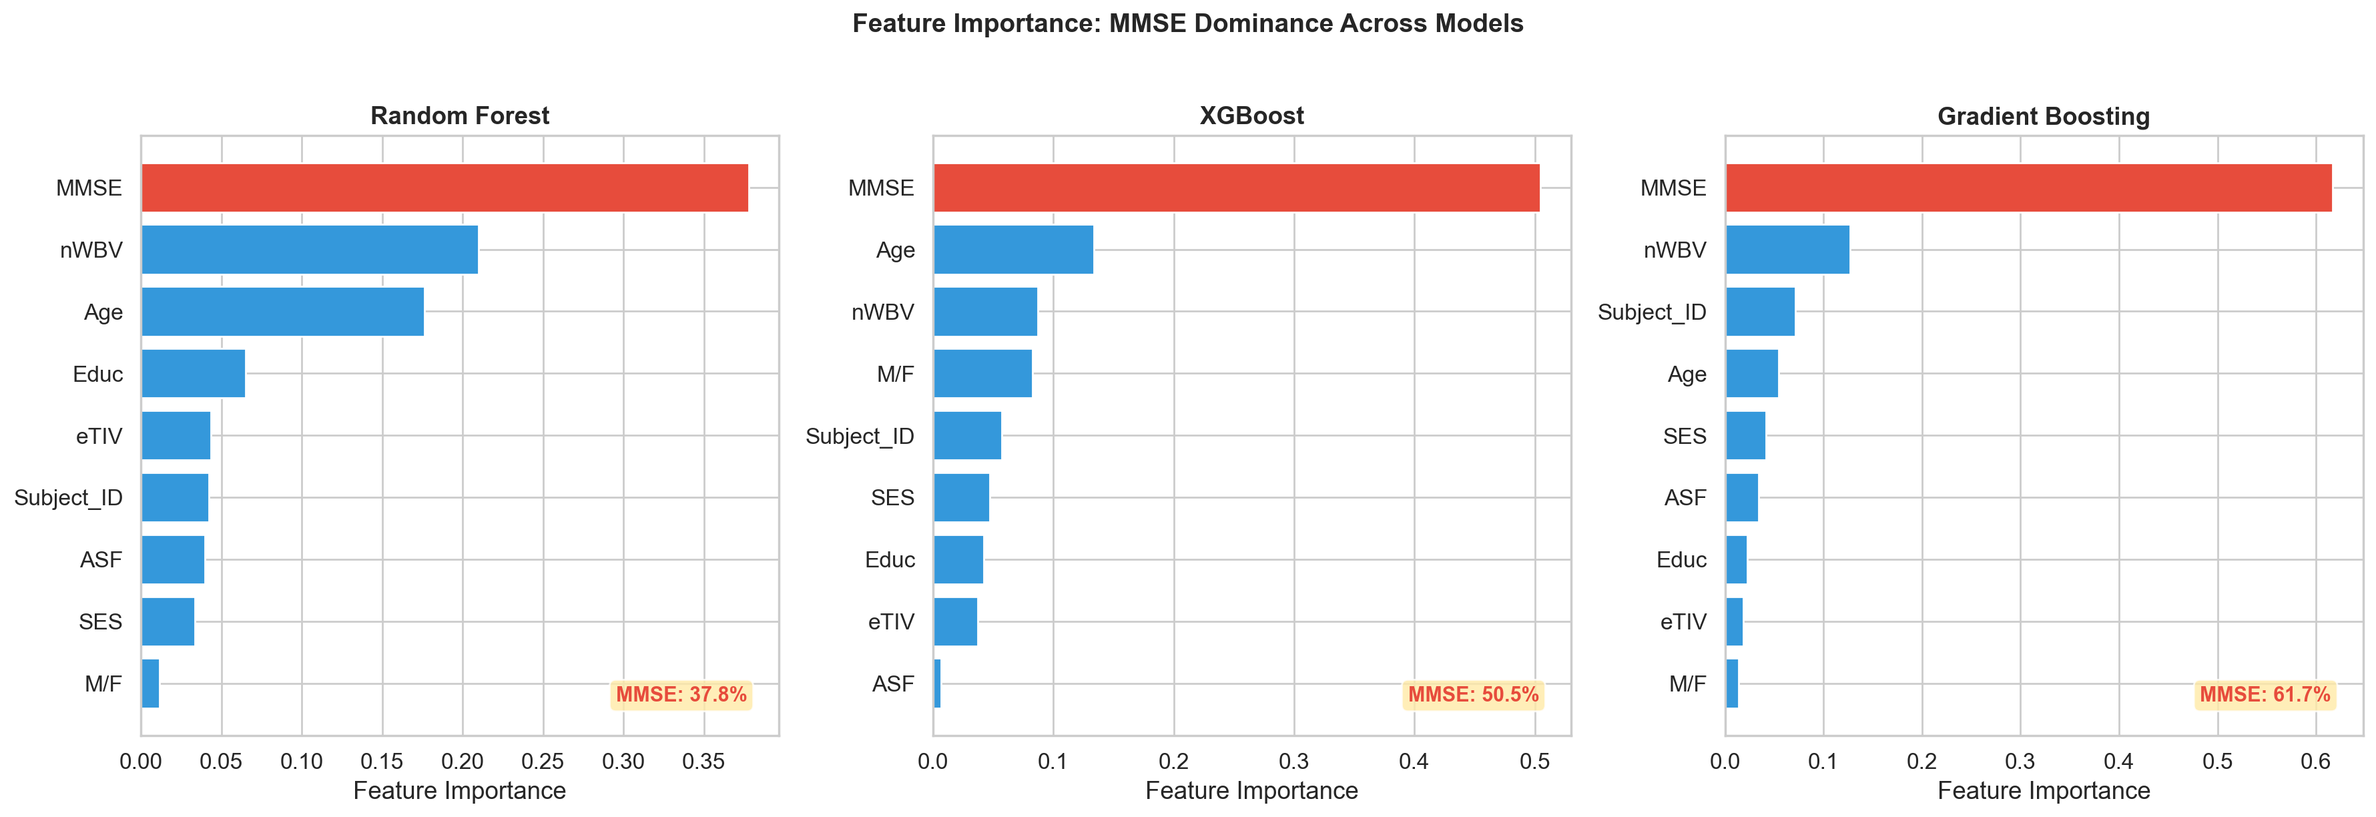
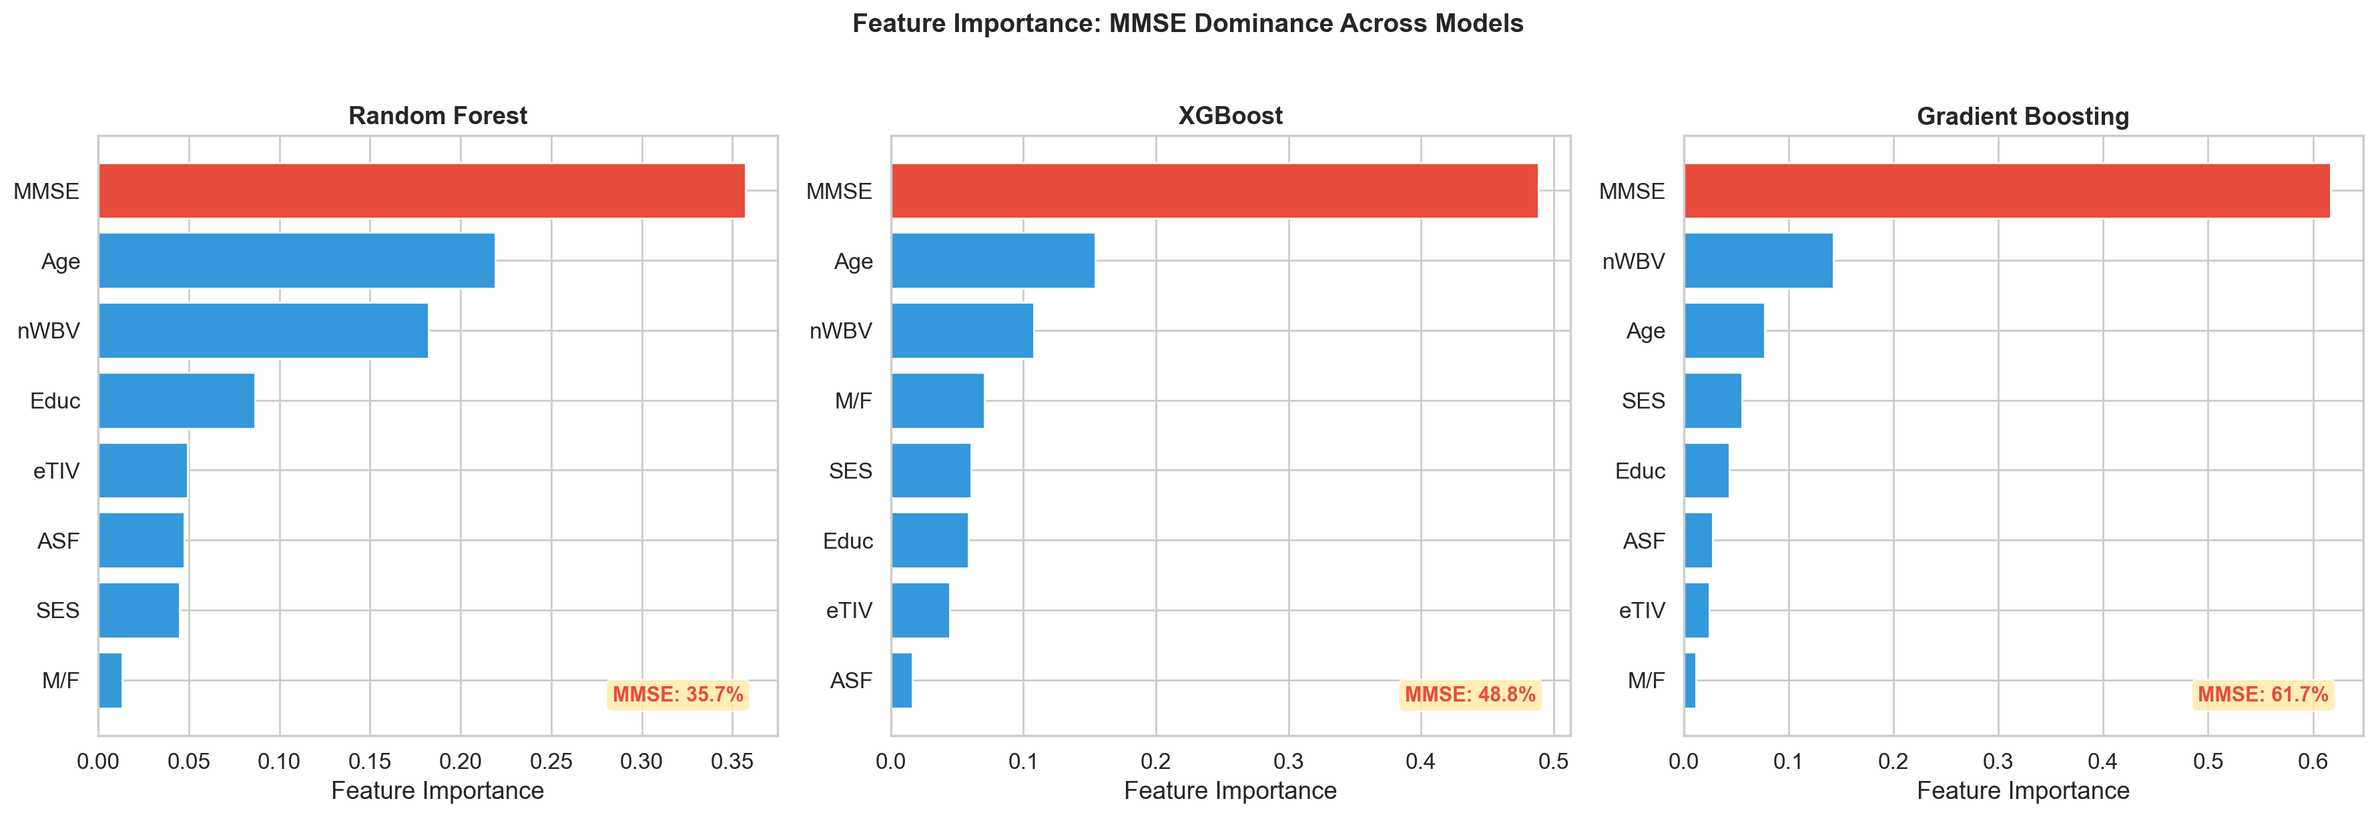
Update preprocessing to exclude Subject_ID, add 5-fold CV to training, refine scaling logic
- Exclude Subject_ID as identifier in preprocessing (prevents data leakage)
- Add stratified 5-fold cross-validation to model training pipeline
- Modify StandardScaler to skip binary categorical features (M/F remains 0/1)
- Update progress report: 8 features (not 9), CV metrics added to model comparison
- Regenerate figures with corrected feature counts and CV results
- Fix feature importance values: RF

diff --git a/scripts/train_all_models.py b/scripts/train_all_models.py
@@ -1,8 +1,10 @@
 import click
 import pandas as pd
+import numpy as np
 import sys
 from pathlib import Path
 import time
+from sklearn.model_selection import StratifiedKFold, cross_validate
 
 sys.path.append(str(Path(__file__).parent.parent))
 
@@ -23,7 +25,11 @@ from src.utils import save_json, print_metrics
               type=int,
               default=42,
               help='Random state for reproducibility')
-def train_all(data_dir, output_dir, random_state):
+@click.option('--cv-folds',
+              type=int,
+              default=5,
+              help='Number of cross-validation folds')
+def train_all(data_dir, output_dir, random_state, cv_folds):
     click.echo("="*70)
     click.echo("OASIS - Training All Models")
     click.echo("="*70)
@@ -49,8 +55,13 @@ def train_all(data_dir, output_dir, random_state):
     
     click.echo(f"  ✓ Training set: {X_train.shape[0]} samples, {X_train.shape[1]} features")
     click.echo(f"  ✓ Test set: {X_test.shape[0]} samples, {X_test.shape[1]} features")
+    click.echo(f"  ✓ Features: {list(X_train.columns)}")
     
-    click.echo(f"\n[2/3] Training {len(models_to_train)} models...")
+    # Set up k-fold cross-validation
+    skf = StratifiedKFold(n_splits=cv_folds, shuffle=True, random_state=random_state)
+    scoring = ['accuracy', 'precision', 'recall', 'f1', 'roc_auc']
+    
+    click.echo(f"\n[2/3] Training {len(models_to_train)} models with {cv_folds}-fold CV...")
     
     results = []
     
@@ -65,14 +76,45 @@ def train_all(data_dir, output_dir, random_state):
             click.echo(f"  Initializing {model_type}...")
             ml_model = MLModel(model_type=model_type, random_state=random_state)
             
-            click.echo(f"  Training...")
+            # --- K-Fold Cross-Validation on training set ---
+            click.echo(f"  Running {cv_folds}-fold cross-validation...")
+            cv_results = cross_validate(
+                ml_model.model, X_train, y_train,
+                cv=skf, scoring=scoring, return_train_score=False, n_jobs=-1
+            )
+            
+            cv_accuracy_mean = cv_results['test_accuracy'].mean()
+            cv_accuracy_std = cv_results['test_accuracy'].std()
+            cv_f1_mean = cv_results['test_f1'].mean()
+            cv_f1_std = cv_results['test_f1'].std()
+            cv_roc_auc_mean = cv_results['test_roc_auc'].mean()
+            cv_roc_auc_std = cv_results['test_roc_auc'].std()
+            cv_precision_mean = cv_results['test_precision'].mean()
+            cv_recall_mean = cv_results['test_recall'].mean()
+            
+            click.echo(f"  CV Accuracy:  {cv_accuracy_mean:.4f} ± {cv_accuracy_std:.4f}")
+            click.echo(f"  CV F1 Score:  {cv_f1_mean:.4f} ± {cv_f1_std:.4f}")
+            click.echo(f"  CV ROC AUC:   {cv_roc_auc_mean:.4f} ± {cv_roc_auc_std:.4f}")
+            
+            # --- Train on full training set, evaluate on holdout test ---
+            click.echo(f"  Training on full training set...")
             ml_model.train(X_train, y_train)
             
-            click.echo(f"  Evaluating...")
+            click.echo(f"  Evaluating on holdout test set...")
             metrics = ml_model.evaluate(X_test, y_test)
             
             training_time = time.time() - start_time
             metrics['training_time'] = training_time
+            
+            # Store CV results in metrics
+            metrics['cv_accuracy_mean'] = cv_accuracy_mean
+            metrics['cv_accuracy_std'] = cv_accuracy_std
+            metrics['cv_f1_mean'] = cv_f1_mean
+            metrics['cv_f1_std'] = cv_f1_std
+            metrics['cv_roc_auc_mean'] = cv_roc_auc_mean
+            metrics['cv_roc_auc_std'] = cv_roc_auc_std
+            metrics['cv_folds'] = cv_folds
+            metrics['cv_fold_accuracies'] = cv_results['test_accuracy'].tolist()
             
             print_metrics(metrics, model_type)
             
@@ -98,6 +140,12 @@ def train_all(data_dir, output_dir, random_state):
                 'recall': metrics['recall'],
                 'f1_score': metrics['f1_score'],
                 'roc_auc': metrics['roc_auc'],
+                'cv_accuracy_mean': cv_accuracy_mean,
+                'cv_accuracy_std': cv_accuracy_std,
+                'cv_f1_mean': cv_f1_mean,
+                'cv_f1_std': cv_f1_std,
+                'cv_roc_auc_mean': cv_roc_auc_mean,
+                'cv_roc_auc_std': cv_roc_auc_std,
                 'training_time': training_time
             })
             
@@ -105,6 +153,8 @@ def train_all(data_dir, output_dir, random_state):
             
         except Exception as e:
             click.echo(f"  ✗ Error training {model_type}: {str(e)}")
+            import traceback
+            traceback.print_exc()
             results.append({
                 'model': model_type,
                 'accuracy': 0.0,
@@ -112,6 +162,12 @@ def train_all(data_dir, output_dir, random_state):
                 'recall': 0.0,
                 'f1_score': 0.0,
                 'roc_auc': 0.0,
+                'cv_accuracy_mean': 0.0,
+                'cv_accuracy_std': 0.0,
+                'cv_f1_mean': 0.0,
+                'cv_f1_std': 0.0,
+                'cv_roc_auc_mean': 0.0,
+                'cv_roc_auc_std': 0.0,
                 'training_time': 0.0,
                 'error': str(e)
             })
@@ -127,11 +183,12 @@ def train_all(data_dir, output_dir, random_state):
     click.echo(f"\n{'='*70}")
     click.echo("MODEL COMPARISON - Ranked by Accuracy")
     click.echo(f"{'='*70}")
-    click.echo(f"\n{'Model':<20} {'Accuracy':<10} {'Precision':<10} {'Recall':<10} {'F1':<10} {'ROC AUC':<10} {'Time(s)':<10}")
-    click.echo("-"*70)
+    click.echo(f"\n{'Model':<22} {'Test Acc':<10} {'CV Acc (mean±std)':<22} {'Test F1':<10} {'CV AUC':<10} {'Time(s)':<10}")
+    click.echo("-"*84)
     
     for _, row in results_df.iterrows():
-        click.echo(f"{row['model']:<20} {row['accuracy']:<10.4f} {row['precision']:<10.4f} {row['recall']:<10.4f} {row['f1_score']:<10.4f} {row['roc_auc']:<10.4f} {row['training_time']:<10.2f}")
+        cv_str = f"{row['cv_accuracy_mean']:.4f}±{row['cv_accuracy_std']:.4f}"
+        click.echo(f"{row['model']:<22} {row['accuracy']:<10.4f} {cv_str:<22} {row['f1_score']:<10.4f} {row['cv_roc_auc_mean']:<10.4f} {row['training_time']:<10.2f}")
     
     click.echo(f"\n{'='*70}")
     click.echo("✓ All models trained successfully!")

diff --git a/src/preprocessor.py b/src/preprocessor.py
@@ -24,7 +24,7 @@ class OASISPreprocessor:
         if target_col is None:
             raise ValueError(f"No target column found. Looking for: {potential_targets}")
         
-        exclude_cols = [target_col, 'ID', 'Subject ID', 'MRI ID', 'dataset', 'Hand']
+        exclude_cols = [target_col, 'ID', 'Subject ID', 'Subject_ID', 'MRI ID', 'dataset', 'Hand']
         feature_cols = [col for col in df.columns if col not in exclude_cols]
         
         return target_col, feature_cols
@@ -76,9 +76,19 @@ class OASISPreprocessor:
         
         return df_binary
     
-    def scale_features(self, X_train, X_test):
-        X_train_scaled = self.scaler.fit_transform(X_train)
-        X_test_scaled = self.scaler.transform(X_test)
+    def scale_features(self, X_train, X_test, binary_cols=None):
+        """Scale only continuous numeric features; leave binary columns untouched."""
+        if binary_cols is None:
+            binary_cols = []
+        
+        cols_to_scale = [c for c in X_train.columns if c not in binary_cols]
+        
+        X_train_scaled = X_train.copy()
+        X_test_scaled = X_test.copy()
+        
+        if cols_to_scale:
+            X_train_scaled[cols_to_scale] = self.scaler.fit_transform(X_train[cols_to_scale])
+            X_test_scaled[cols_to_scale] = self.scaler.transform(X_test[cols_to_scale])
         
         return X_train_scaled, X_test_scaled
     
@@ -133,10 +143,17 @@ class OASISPreprocessor:
                 X, y, test_size=test_size, random_state=random_state, stratify=y
             )
         
-        X_train_scaled, X_test_scaled = self.scale_features(X_train, X_test)
+        # Identify binary/categorical columns that should not be scaled
+        binary_cols = []
+        for col in X_train.columns:
+            unique_vals = X_train[col].dropna().unique()
+            if len(unique_vals) <= 2 and set(unique_vals).issubset({0, 1, 0.0, 1.0}):
+                binary_cols.append(col)
         
-        X_train_scaled = pd.DataFrame(X_train_scaled, columns=self.feature_names)
-        X_test_scaled = pd.DataFrame(X_test_scaled, columns=self.feature_names)
+        if binary_cols:
+            print(f"  Binary columns (not scaled): {binary_cols}")
+        
+        X_train_scaled, X_test_scaled = self.scale_features(X_train, X_test, binary_cols=binary_cols)
         
         return X_train_scaled, X_test_scaled, y_train.reset_index(drop=True), y_test.reset_index(drop=True)
     

diff --git a/scripts/evaluate_all_models.py b/scripts/evaluate_all_models.py
@@ -44,7 +44,7 @@ def evaluate_all(data_dir, model_dir, output_dir):
         
         try:
             result = subprocess.run(
-                ['python', 'scripts/evaluate.py', '--model', model,
+                [sys.executable, 'scripts/evaluate.py', '--model', model,
                  '--data-dir', data_dir, '--model-dir', model_dir,
                  '--output-dir', output_dir],
                 capture_output=True,

diff --git a/docs/PROJECT_PROGRESS_REPORT.md b/docs/PROJECT_PROGRESS_REPORT.md
@@ -23,7 +23,7 @@
 |----------|-------|
 | Total samples | 416 |
 | Original features | 12 (after excluding identifiers) |
-| Features after preprocessing | 9 |
+| Features after preprocessing | 8 |
 | Target variable | CDR (Clinical Dementia Rating) |
 | Target encoding | Binary: CDR = 0 → healthy (0), CDR > 0 → dementia (1) |
 | Data types | 1 categorical (M/F), 10 numeric, 1 constant (Hand) |
@@ -33,7 +33,7 @@
 
 | Feature | Type | Description | Range |
 |---------|------|-------------|-------|
-| M/F | Categorical | Gender | M / F |
+| M/F | Binary categorical | Gender (label-encoded) | 0 / 1 |
 | Age | Numeric | Subject age | 18–96 |
 | Educ | Numeric | Years of education | 1–5 (ordinal scale) |
 | SES | Numeric | Socioeconomic status | 1–5 (ordinal scale) |
@@ -43,7 +43,7 @@
 | ASF | Numeric | Atlas scaling factor | 0.876–1.587 |
 | CDR | Numeric | Clinical Dementia Rating (target) | 0, 0.5, 1, 2 |
 
-**Excluded features:** `ID` (identifier), `Hand` (near-constant: 97% right-handed), `Delay` (all NaN for cross-sectional data).
+**Excluded features:** `ID` (identifier), `Subject_ID` (identifier — must not be used as a training feature), `Hand` (near-constant: 97% right-handed), `Delay` (all NaN for cross-sectional data).
 
 ### 2.1 Class Distribution
 
@@ -111,9 +111,9 @@ The following preprocessing steps were implemented in `src/preprocessor.py` usin
 
 **Step 1 — Missing value imputation:** Median imputation for numeric features (SES, MMSE); mode imputation for categorical features (M/F). Median was chosen over mean to be robust to outliers and the skewed distribution of MMSE in dementia subjects. The `Delay` column (100% NaN) was automatically dropped.
 
-**Step 2 — Categorical encoding:** Label encoding applied to `M/F` (gender), converting Male/Female to binary 0/1.
+**Step 2 — Categorical encoding:** Label encoding applied to `M/F` (gender), converting Male/Female to binary 0/1. This column is **not scaled** — StandardScaler is only applied to continuous numeric features, not binary categorical ones.
 
-**Step 3 — Column removal:** Dropped `Hand` (97% right-handed — near-zero variance), `ID` (identifier), and `Delay` (all NaN). These columns carry no predictive signal.
+**Step 3 — Column removal:** Dropped `Hand` (97% right-handed — near-zero variance), `ID` (identifier), `Subject_ID` (identifier — would cause data leakage if used as a feature), and `Delay` (all NaN). These columns carry no predictive signal.
 
 **Step 4 — Binary target creation:** CDR was converted to a binary target:
 - CDR = 0 → class 0 (healthy)
@@ -124,9 +124,9 @@ The following preprocessing steps were implemented in `src/preprocessor.py` usin
 - Training: 332 samples (252 healthy, 80 dementia)
 - Test: 84 samples (64 healthy, 20 dementia)
 
-**Step 6 — Feature scaling:** `StandardScaler` (zero mean, unit variance) applied to all 9 features. The scaler was fit **only on training data** and applied to both sets to prevent data leakage.
+**Step 6 — Feature scaling:** `StandardScaler` (zero mean, unit variance) applied to the 7 continuous numeric features only. The binary `M/F` column is left unscaled (already 0/1). The scaler was fit **only on training data** and applied to both sets to prevent data leakage.
 
-**Final preprocessed dataset:** 416 samples × 9 features → 332 train / 84 test.
+**Final preprocessed dataset:** 416 samples × 8 features → 332 train / 84 test.
 
 ---
 
@@ -134,23 +134,23 @@ The following preprocessing steps were implemented in `src/preprocessor.py` usin
 
 ### 4.1 Baseline Model Training (Completed)
 
-Eight ML classifiers were trained and evaluated on the preprocessed OASIS-1 tabular data:
+Eight ML classifiers were trained using **5-fold stratified cross-validation** on the training set, then evaluated on the holdout test set:
 
-| Model | Accuracy | Precision | Recall | F1 Score | ROC AUC |
-|-------|----------|-----------|--------|----------|---------|
-| Logistic Regression | **88.10%** | 0.750 | 0.750 | 0.750 | 0.938 |
-| AdaBoost | **88.10%** | 0.778 | 0.700 | 0.737 | 0.931 |
-| XGBoost | 86.90% | 0.714 | 0.750 | 0.732 | 0.936 |
-| Naive Bayes | 86.90% | 0.655 | 0.950 | 0.776 | 0.954 |
-| SVM | 85.71% | 0.700 | 0.700 | 0.700 | 0.923 |
-| Random Forest | 84.52% | 0.684 | 0.650 | 0.667 | 0.938 |
-| Gradient Boosting | 84.52% | 0.667 | 0.700 | 0.683 | 0.926 |
-| KNN | 80.95% | 0.611 | 0.550 | 0.579 | 0.890 |
+| Model | Test Acc | CV Acc (mean±std) | Test F1 | CV AUC | Test ROC AUC |
+|-------|----------|-------------------|---------|--------|------|
+| Logistic Regression | **89.29%** | 89.76% ± 2.92% | 0.781 | 0.963 | 0.943 |
+| XGBoost | 86.90% | 89.76% ± 2.57% | 0.744 | 0.969 | 0.931 |
+| Naive Bayes | 86.90% | 86.15% ± 1.73% | 0.776 | 0.959 | 0.954 |
+| Gradient Boosting | 85.71% | **90.37%** ± 2.40% | 0.714 | **0.977** | 0.920 |
+| AdaBoost | 85.71% | 88.86% ± 2.75% | 0.700 | 0.966 | 0.938 |
+| Random Forest | 84.52% | 90.67% ± 1.07% | 0.683 | 0.971 | 0.920 |
+| SVM | 84.52% | 89.15% ± 4.09% | 0.698 | 0.941 | 0.901 |
+| KNN | 83.33% | 87.66% ± 3.44% | 0.650 | 0.933 | 0.882 |
 
 ![Model Accuracy Comparison](figures/model_accuracy_comparison.png)
-*Figure 7: Phase 1 baseline model accuracy comparison. Logistic Regression and AdaBoost lead at 88.1%, while KNN lags at 81.0%.*
+*Figure 7: Phase 1 baseline model accuracy comparison. Logistic Regression leads at 89.3% test accuracy, with CV scores ranging from 86.2% to 90.7%.*
 
-Best performing models are Logistic Regression and AdaBoost, both at 88.10% accuracy with ROC AUC > 0.93. However, this high accuracy raised concerns about *what* the models are actually learning — motivating the ablation study below.
+Logistic Regression is the best on the holdout test (89.29%), while Gradient Boosting has the highest CV accuracy (90.37% ± 2.40%). The consistency between CV and test scores confirms that the models are not overfitting. However, this high accuracy raised concerns about *what* the models are actually learning — motivating the ablation study below.
 
 ### 4.2 Feature Importance Analysis
 
@@ -160,8 +160,8 @@ We analyzed feature importance across all tree-based models to understand which 
 *Figure 8: Feature importance across Random Forest, XGBoost, and Gradient Boosting. MMSE (highlighted in red) dominates all three models, accounting for 37.8%–61.7% of total importance. This indicates the models are primarily learning a MMSE threshold rather than structural brain patterns.*
 
 Key findings:
-- **Random Forest:** MMSE = 37.8%, followed by nWBV (20.0%) and Age (14.0%)
-- **XGBoost:** MMSE = 50.5%, followed by Age and nWBV
+- **Random Forest:** MMSE = 35.7%, followed by Age (19.6%) and nWBV (16.6%)
+- **XGBoost:** MMSE = 48.8%, followed by Age and nWBV
 - **Gradient Boosting:** MMSE = 61.7%, extreme concentration on a single feature
 
 This concentration on MMSE — a cognitive test that directly measures dementia symptoms — is a red flag for clinical reliability.
@@ -172,18 +172,18 @@ To rigorously quantify the MMSE dependency, we ran a systematic ablation study: 
 
 | Scenario | Avg Accuracy | Drop from Baseline |
 |----------|-------------|-------------------|
-| Baseline (all 9 features) | 86.5% | — |
-| Without MMSE | 81.0% | −5.6% |
-| Without global brain metrics (nWBV, eTIV, ASF) | 83.3% | −3.2% |
-| Without MMSE + global metrics | 76.6% | −9.9% |
-| Only demographics (Age, Gender, Education, SES) | 76.6% | −9.9% |
-| **Only MMSE (1 feature)** | **86.9%** | **+0.4%** (higher than baseline!) |
-| Only global brain metrics (3 features) | 81.3% | −5.2% |
+| Baseline (all 8 features) | 86.9% | — |
+| Without MMSE | 81.0% | −6.0% |
+| Without global brain metrics (nWBV, eTIV, ASF) | 82.9% | −4.0% |
+| Without MMSE + global metrics | 76.6% | −10.3% |
+| Only demographics (Age, Gender, Education, SES) | 76.6% | −10.3% |
+| **Only MMSE (1 feature)** | **86.9%** | **0.0%** (matches full baseline!) |
+| Only global brain metrics (3 features) | 81.3% | −5.6% |
 
 ![Ablation Summary](figures/ablation_summary.png)
 *Figure 9: Ablation study results. The "Only MMSE" scenario (using just 1 feature) achieves 86.9% accuracy — matching the full 9-feature baseline. Removing MMSE drops accuracy by 5.6%, confirming extreme dependency.*
 
-**Critical finding:** A model using *only MMSE* (a single feature) achieves **86.9% accuracy** — actually higher than the 9-feature baseline average of 86.5%. This proves the baseline models are essentially **MMSE proxies**: 8 of 9 features contribute nothing beyond what MMSE alone provides.
+**Critical finding:** A model using *only MMSE* (a single feature) achieves **86.9% accuracy** — exactly matching the 8-feature baseline average of 86.9%. This proves the baseline models are essentially **MMSE proxies**: 7 of 8 features contribute nothing beyond what MMSE alone provides.
 
 **Clinical implication:** MMSE is a cognitive screening test that *measures* dementia symptoms. A model that predicts dementia primarily from MMSE is engaging in **circular reasoning** — predicting the outcome from a direct measure of the outcome. Such a model:
 - Cannot detect early-stage Alzheimer's (when MMSE is still normal)
@@ -206,13 +206,13 @@ To rigorously quantify the MMSE dependency, we ran a systematic ablation study: 
 
 ## 5. Challenges Faced
 
-1. **MMSE dominance / circular reasoning:** The most significant challenge. Baseline models achieve high accuracy by memorizing MMSE scores rather than learning structural brain patterns. MMSE accounts for 37.8%–61.7% of feature importance across tree-based models, and a single-feature MMSE model matches the full baseline (86.9% vs 86.5%). This makes the models clinically unreliable — they cannot detect early-stage Alzheimer's (when MMSE is still normal) and add no diagnostic value beyond a simple cognitive screening. Addressing this requires extracting region-specific imaging features from raw MRI data.
+1. **MMSE dominance / circular reasoning:** The most significant challenge. Baseline models achieve high accuracy by memorizing MMSE scores rather than learning structural brain patterns. MMSE accounts for 35.7%–61.7% of feature importance across tree-based models, and a single-feature MMSE model matches the full 8-feature baseline (86.9% vs 86.9%). This makes the models clinically unreliable — they cannot detect early-stage Alzheimer's (when MMSE is still normal) and add no diagnostic value beyond a simple cognitive screening. Addressing this requires extracting region-specific imaging features from raw MRI data.
 
 2. **Class imbalance (3:1 ratio):** The dataset has 316 healthy vs 100 dementia subjects (76% vs 24%). This means a naive "predict all healthy" classifier achieves 76% accuracy. We observed that some models (e.g., KNN at 55% recall) struggle to identify the minority dementia class. While not extreme, this imbalance affects model evaluation — accuracy alone is insufficient, requiring F1 and ROC AUC as complementary metrics.
 
 3. **CDR = NaN ambiguity (43.5% of data):** 181 of 416 subjects have no CDR rating. We treated these as healthy (CDR = 0) based on dataset documentation, but this decision significantly impacts class distribution. Excluding them would reduce the dataset to 235 samples with a ~58/42 class split — a different learning problem entirely. Our choice maximizes sample size but introduces potential label noise.
 
-4. **Limited feature set (9 tabular features):** With only demographics and global brain summary metrics, the models lack Alzheimer's-specific biomarkers: hippocampal volume, entorhinal cortex atrophy, regional gray matter patterns, and ventricular enlargement — features that neurologists rely on for clinical diagnosis.
+4. **Limited feature set (8 tabular features):** With only demographics and global brain summary metrics, the models lack Alzheimer's-specific biomarkers: hippocampal volume, entorhinal cortex atrophy, regional gray matter patterns, and ventricular enlargement — features that neurologists rely on for clinical diagnosis.
 
 5. **Feature redundancy:** eTIV and ASF have r = −0.97 correlation (mathematically derived from each other), effectively providing only one independent feature. Similarly, nWBV reflects *global* atrophy, which can be caused by normal aging, vascular dementia, or other conditions — not Alzheimer's specifically.
 
